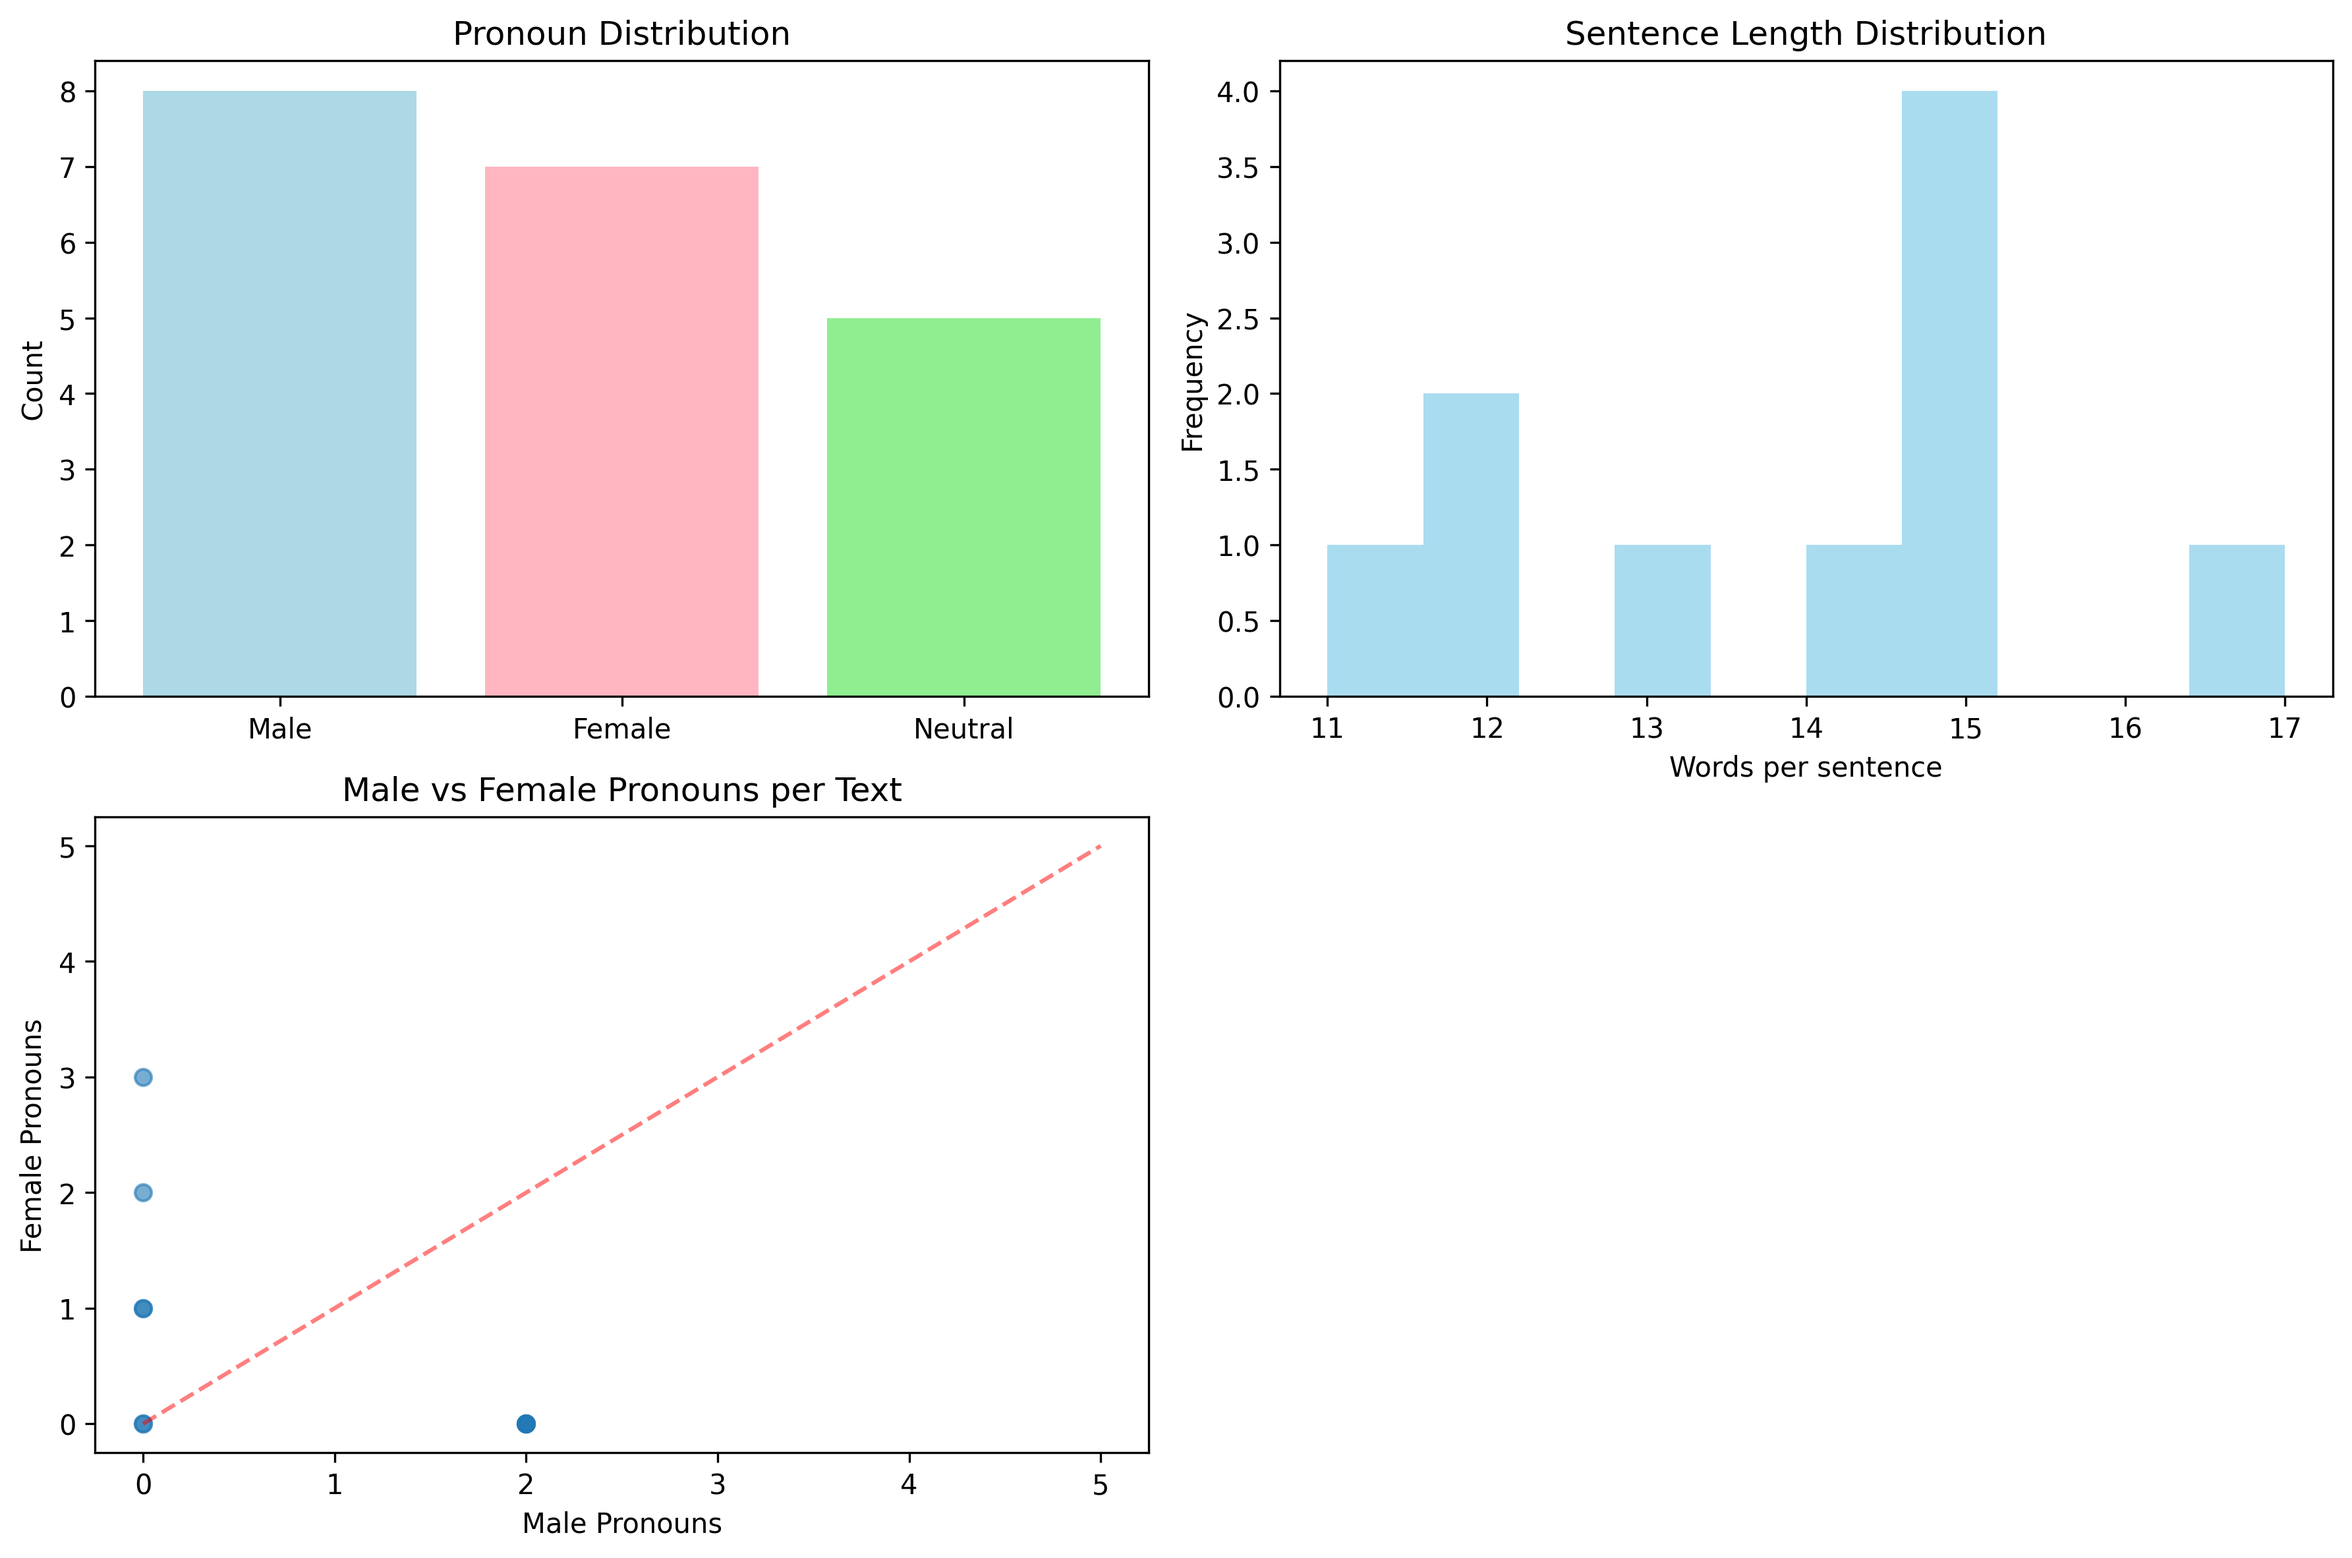
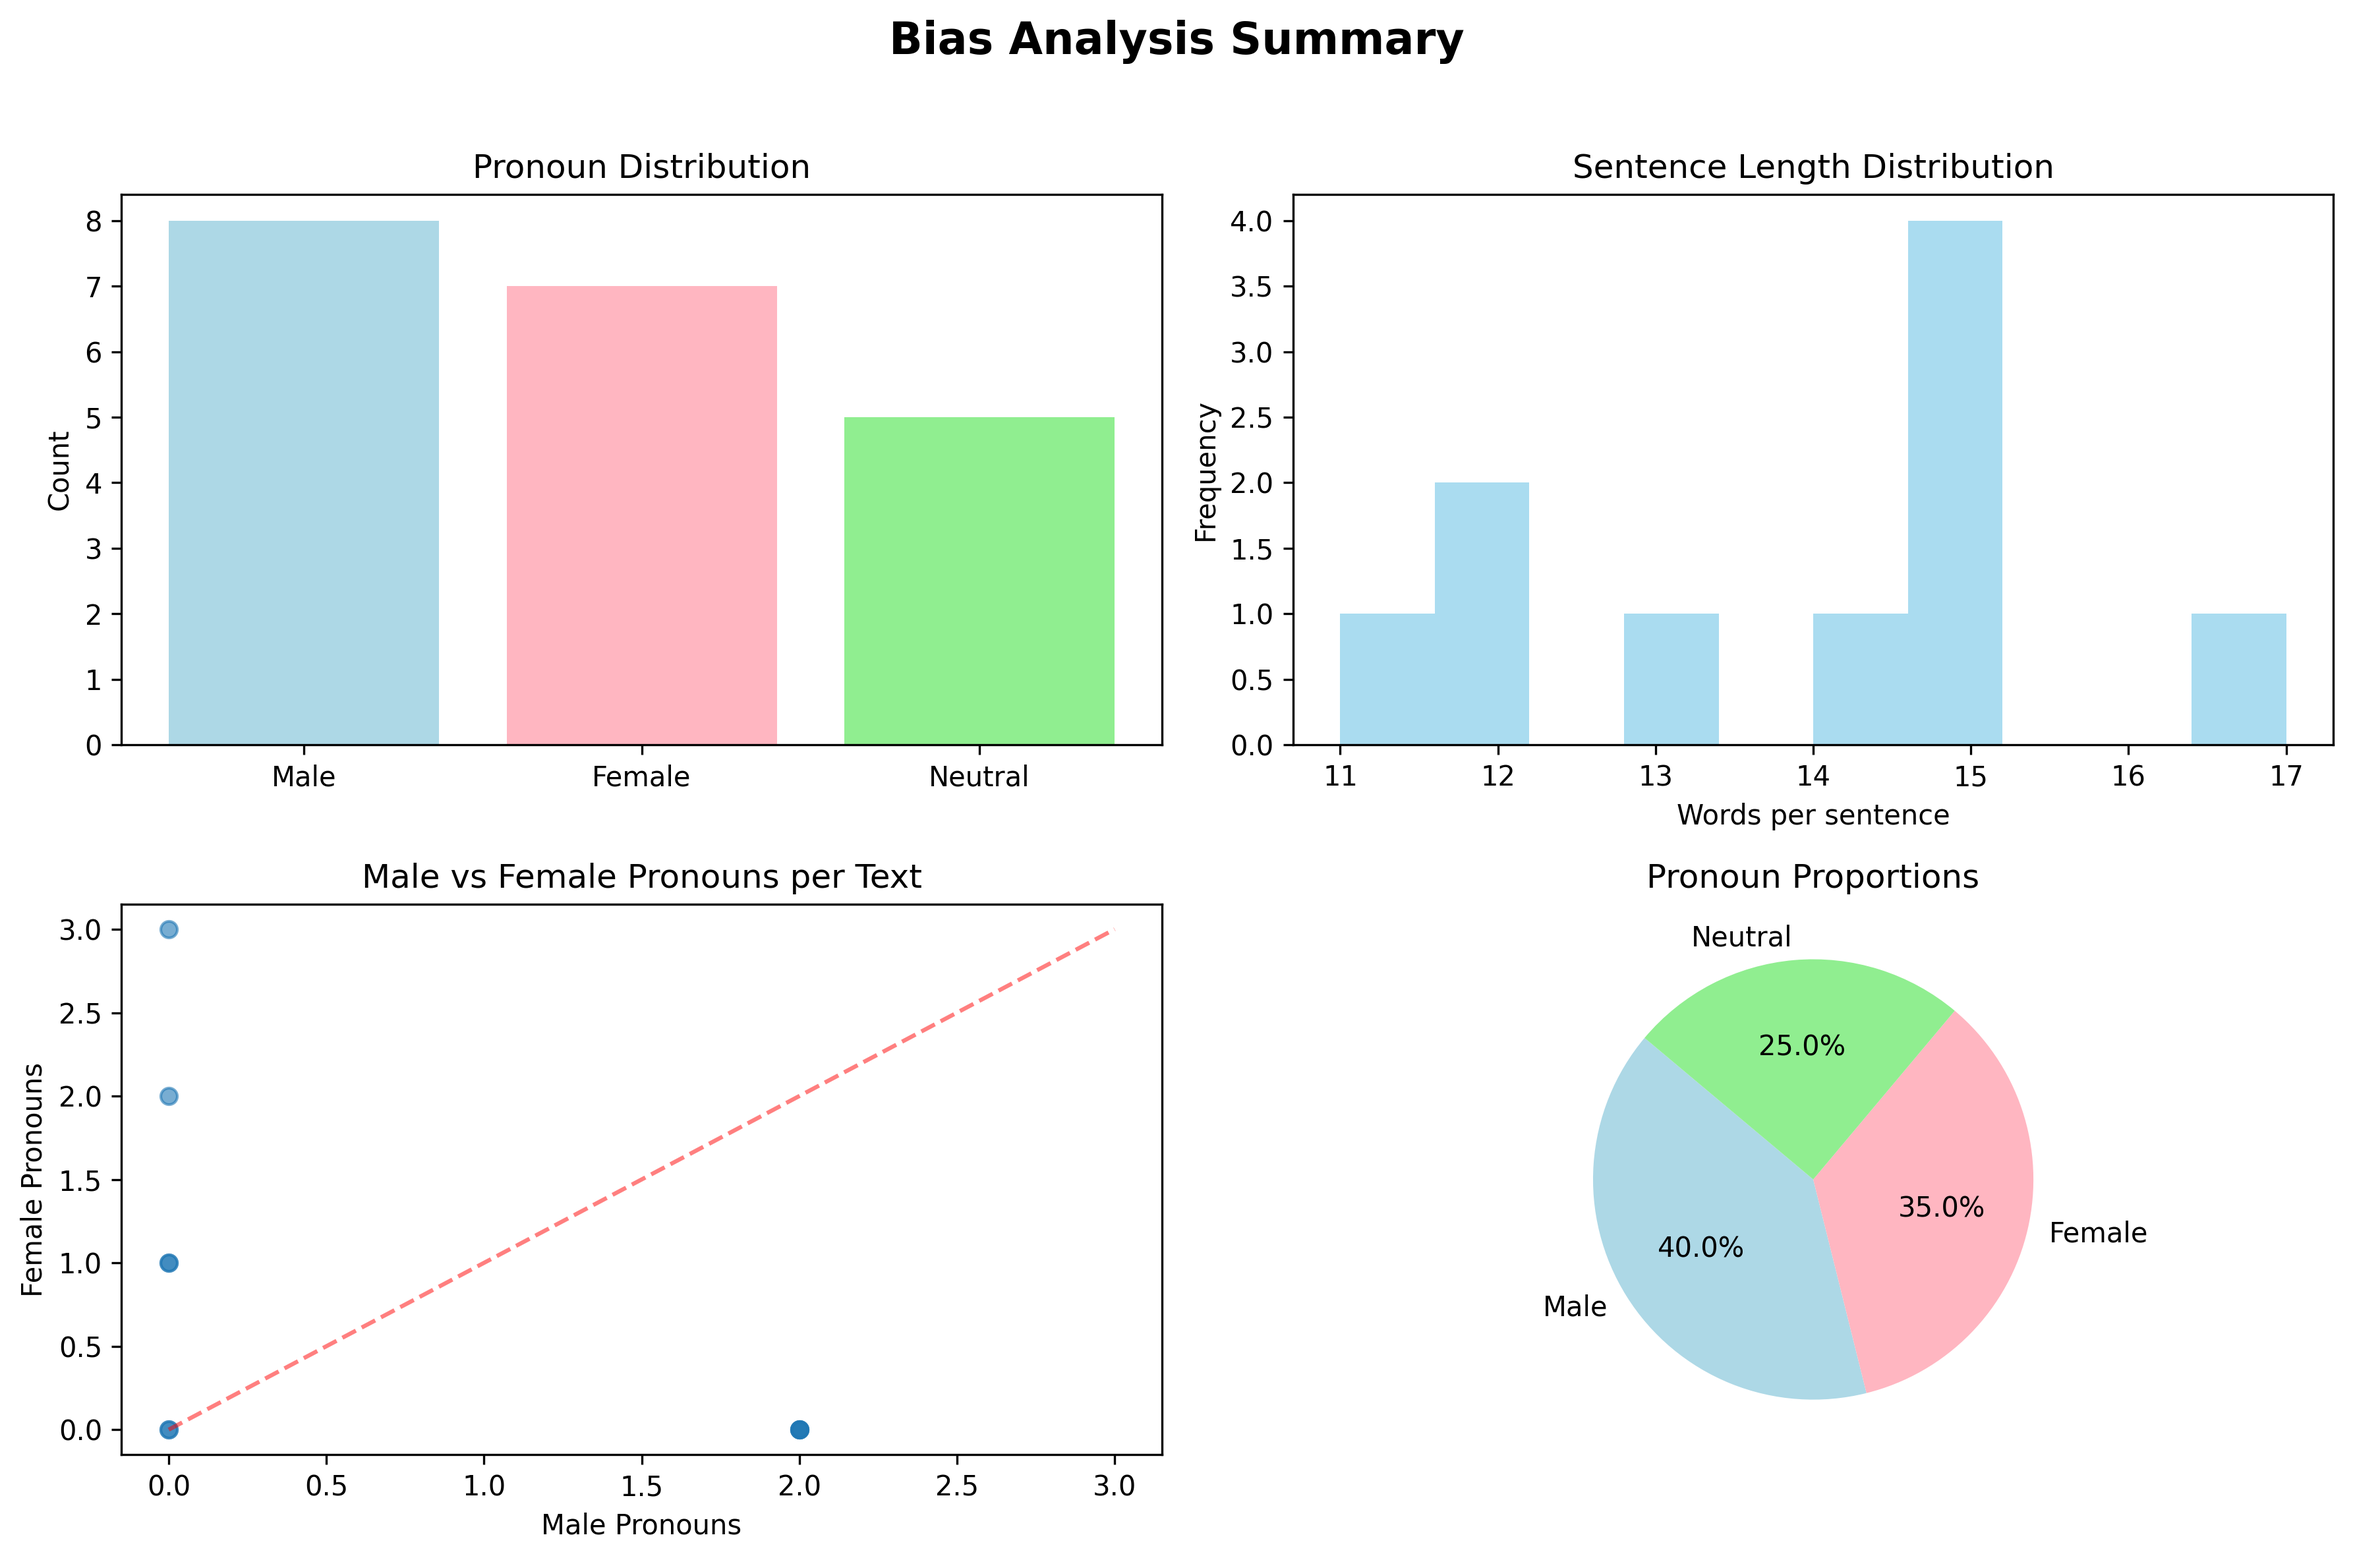
adding the edited files

diff --git a/task12-AI-Ethics-Bias-Detection/bias_detection.py b/task12-AI-Ethics-Bias-Detection/bias_detection.py
@@ -166,12 +166,22 @@ def main():
         # Gender balance by text
         plt.subplot(2, 2, 3)
         plt.scatter(report_df['male_pronouns'], report_df['female_pronouns'], alpha=0.6)
-        plt.plot([0, 5], [0, 5], 'r--', alpha=0.5)  # Ideal balance line
+        plt.plot([0, max(report_df['male_pronouns'].max(), report_df['female_pronouns'].max())],
+         [0, max(report_df['male_pronouns'].max(), report_df['female_pronouns'].max())],
+         'r--', alpha=0.5) # Ideal balance line
         plt.title('Male vs Female Pronouns per Text')
         plt.xlabel('Male Pronouns')
         plt.ylabel('Female Pronouns')
-        
-        plt.tight_layout()
+
+        plt.subplot(2, 2, 4)
+        labels = ['Male', 'Female', 'Neutral']
+        sizes = [summary['total_male_pronouns'], summary['total_female_pronouns'], summary['total_neutral_pronouns']]
+        colors = ['lightblue', 'lightpink', 'lightgreen']
+        plt.pie(sizes, labels=labels, colors=colors, autopct='%1.1f%%', startangle=140)
+        plt.title('Pronoun Proportions')
+
+        plt.suptitle('Bias Analysis Summary', fontsize=16, fontweight='bold')
+        plt.tight_layout(rect=[0, 0, 1, 0.96])
         plt.savefig('bias_analysis_visualization.png', dpi=300, bbox_inches='tight')
         print(f"✓ Visualization saved as 'bias_analysis_visualization.png'")
         
